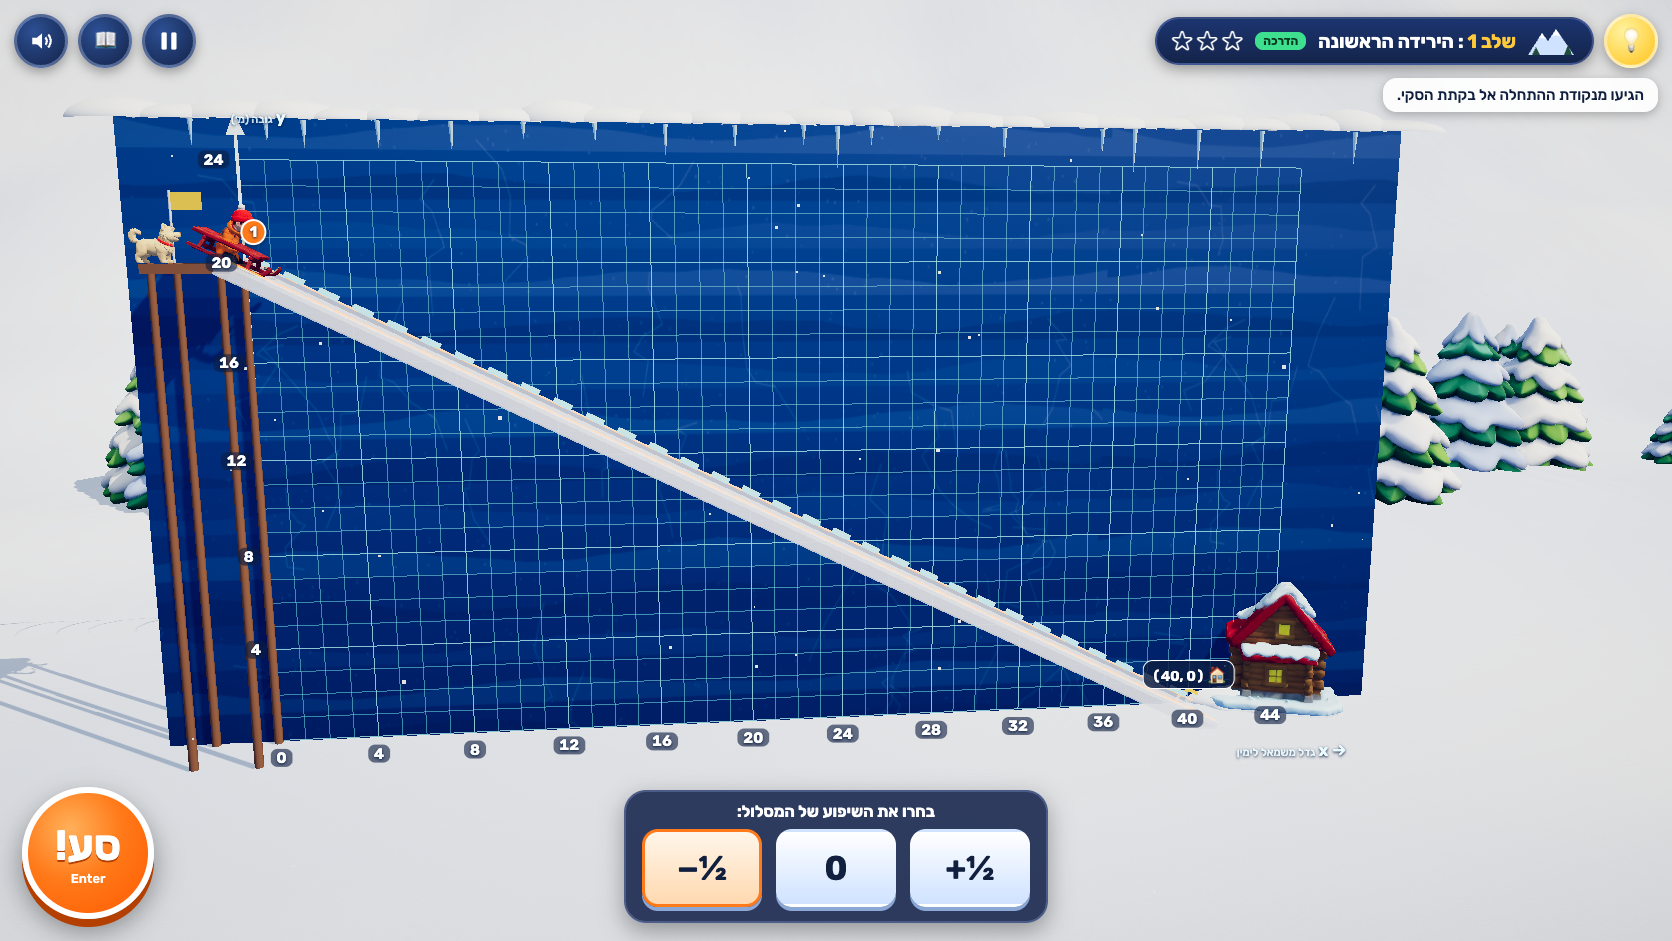
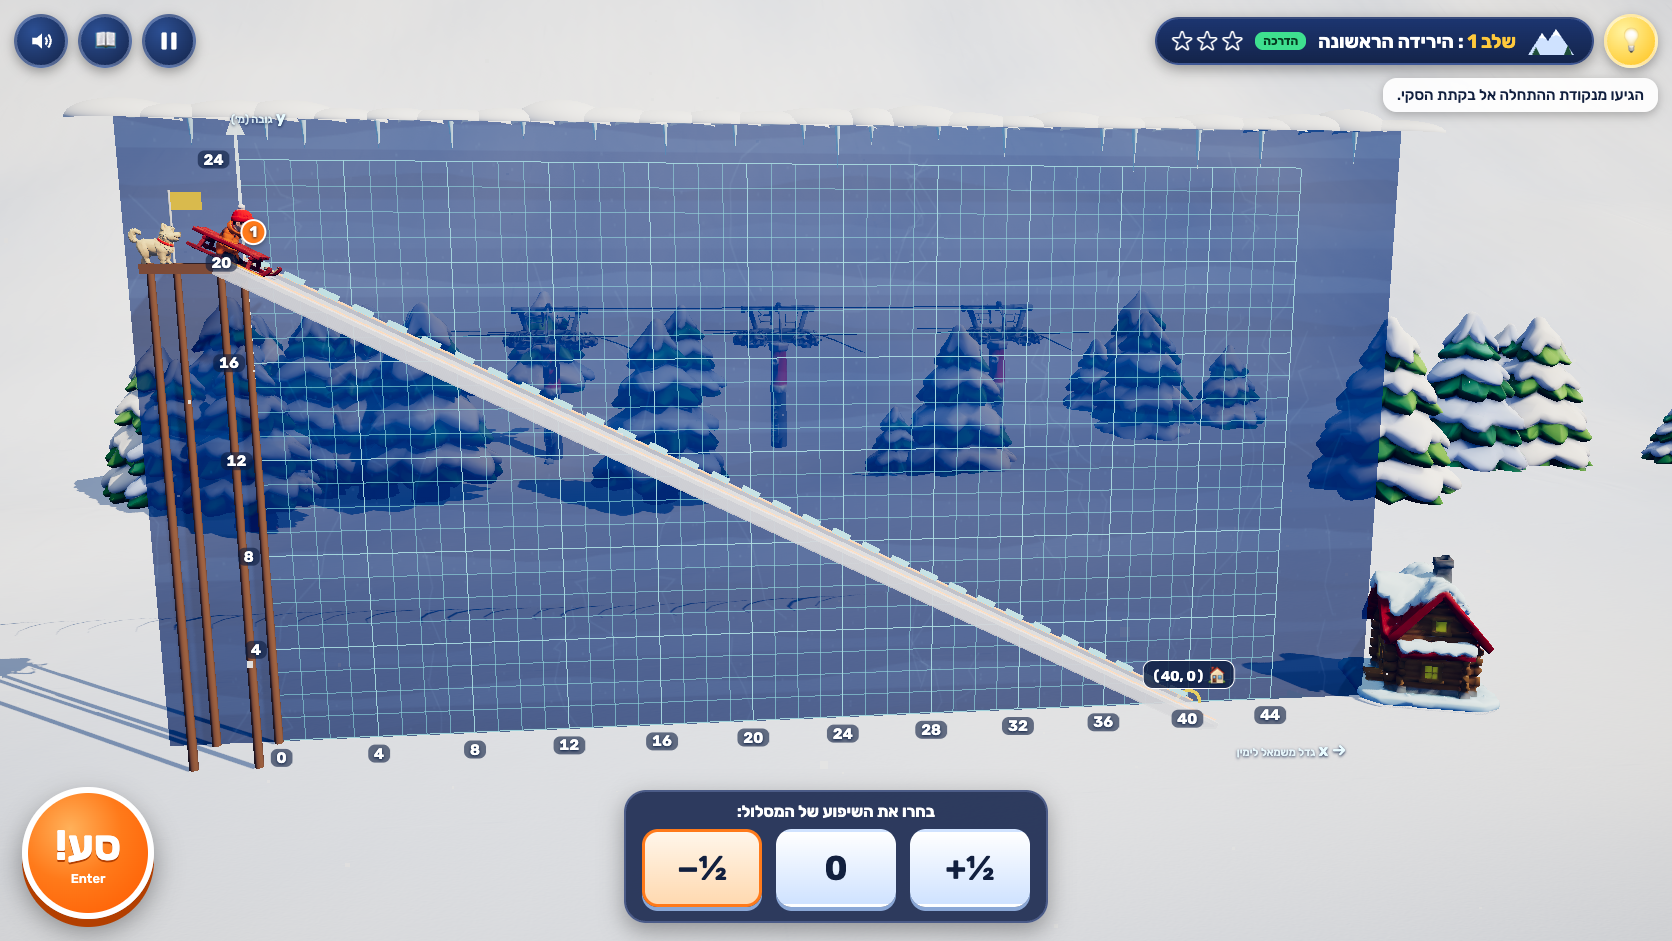
Each world its own time of day and scenery; refreshed title, first-30s and map captures; progress notes

diff --git a/src/scene/world.ts b/src/scene/world.ts
@@ -241,7 +241,7 @@ export class World {
     }
   }
 
-  setMood(mood: Mood): void {
+  setMood(mood: Mood, world = 1): void {
     const u = this.skyMat.uniforms;
     u.stars.value = 0;
     if (mood === 'night') {
@@ -273,6 +273,30 @@ export class World {
       (this.scene.fog as THREE.Fog).color.set(COLORS.horizon);
       this.renderer.toneMappingExposure = 1.12;
       if (this.grade) this.grade.uniforms.warmth.value = 0.05;
+      // Each world is its own time of day on the mountain.
+      if (world === 2) {
+        // Pine Forest: morning, cooler green-blue sky, softer sun through the trees.
+        u.mid.value.set(0x3f7fd8); u.bottom.value.set(0xcfe8ff);
+        u.sunDir.value.set(-0.45, 0.5, 0.45).normalize();
+        this.sun.intensity = 3.6; this.sun.color.set(0xfff6e8);
+        this.hemi.color.set(0xd2ecff); this.hemi.groundColor.set(0x5f8f9a);
+        if (this.grade) this.grade.uniforms.warmth.value = 0.02;
+      } else if (world === 3) {
+        // Rock Garden: crisp, cold high-altitude light, deep sky, hard shadows.
+        u.top.value.set(0x0f3a96); u.mid.value.set(0x1f5fcf); u.bottom.value.set(0xa9cdf7);
+        u.sunDir.value.set(0.35, 0.75, 0.3).normalize();
+        this.sun.intensity = 4.8; this.sun.color.set(0xffffff);
+        this.hemi.intensity = 1.1; this.hemi.groundColor.set(0x5a78c0);
+        if (this.grade) this.grade.uniforms.warmth.value = -0.01;
+      } else if (world === 4) {
+        // Twin Trails: golden late afternoon, long warm light.
+        u.mid.value.set(0x3f6fc8); u.bottom.value.set(0xffd9a8); u.sunColor.value.set(0xffd08a);
+        u.sunDir.value.set(0.8, 0.28, 0.35).normalize();
+        this.sun.intensity = 3.6; this.sun.color.set(0xffd9a0);
+        this.hemi.color.set(0xd8e2ff); this.hemi.groundColor.set(0x7a7fb8);
+        (this.scene.fog as THREE.Fog).color.set(0xe8dccb);
+        if (this.grade) this.grade.uniforms.warmth.value = 0.09;
+      }
     }
     this.sunDir.copy(u.sunDir.value as THREE.Vector3);
   }

diff --git a/src/scene/course.ts b/src/scene/course.ts
@@ -444,7 +444,9 @@ export class Course {
     let seed = this.level.id * 97 + 13;
     const rnd = () => ((seed = (seed * 16807) % 2147483647) / 2147483647);
     const back: THREE.Object3D[] = [];
-    for (let i = 0; i < 46; i++) {
+    const w = this.level.world;
+    const forest = w === 2 ? 90 : w === 3 ? 26 : 46;
+    for (let i = 0; i < forest; i++) {
       const x = x0 - 30 + rnd() * (x1 - x0 + 90);
       const z = -34 - rnd() * 50;
       if (rnd() < 0.35) continue;
@@ -466,6 +468,15 @@ export class Course {
       const py = this.assets.pylon();
       py.position.set(x0 + 6 + i * ((x1 - x0) / 2.2), 0, -62);
       back.push(py);
+    }
+    if (w === 3) {
+      // Rock Garden: basalt boulders scattered across the slopes.
+      for (let i = 0; i < 22; i++) {
+        const rk = this.assets.rock(2 + rnd() * 5, 3 + rnd() * 5);
+        rk.position.set(x0 - 25 + rnd() * (x1 - x0 + 70), 0, -30 - rnd() * 45);
+        rk.rotation.y = rnd() * 6;
+        back.push(rk);
+      }
     }
     this.staticGroup.add(...back);
     // Cable between pylons.

diff --git a/src/game/game.ts b/src/game/game.ts
@@ -207,7 +207,7 @@ export class Game {
     this.chosen = st.segments.map((s) => !s.m.choices);
     this.selected = Math.max(0, st.segments.findIndex((s) => !s.given));
     this.hintOn = false;
-    this.world.setMood(this.level.mood ?? 'day');
+    this.world.setMood(this.level.mood ?? 'day', this.level.world);
     this.course.load(this.level, st);
     this.setupRival();
     this.redrawBuild();

diff --git a/progress.md b/progress.md
@@ -44,6 +44,25 @@
 - **Failure replay:** frames the whole grid beside the card. For joint gaps it draws both lines to their true crossing.
 - **QA:** every level ridden with its verified answer *and* a deliberate wrong answer, through key presses on the production build. All right answers succeed. Wrong answers fail with matching explanations; the exceptions are window levels, where a +1-step change can stay inside the window (by design).
 
+## 2026-10-31: playtest round 2 fixes
+
+- **Answer leaks closed:**
+  - Wide, unlabeled landings on the window levels.
+  - Redesigned expert runs (uneven table, joint on the bolt, ridge and cornice, ghost line read from its graph).
+  - Practice world 4 now needs the dog's equation.
+  - On no-hint levels the replay stops at the failure point.
+  - Tips no longer quote the level's numbers.
+- **Map:**
+  - One terrace per world; overlaps measured at none by `scripts/map-overlaps.mjs`.
+  - A phone list with practice and expert.
+  - A summit finale after level 18.
+- **Look:**
+  - Title attract mode and higher-contrast light.
+  - A glacier-ice grid board and sprite fog.
+  - Ride-only landing ledges and slabs that fade in the chase camera.
+  - Alpenglow dusk and a time of day per world.
+- **QA:** re-run on the production build. All 18 levels pass, and every wrong answer fails with a matching explanation (apart from the window levels, by design).
+
 ## Verification environment notes
 
 - The in-app browser pane isn't visible while this session has no window, so `requestAnimationFrame` doesn't run and pane screenshots are stale. All gameplay captures come from headless Chromium via Playwright (`scripts/drive.mjs`, `scripts/play-all.mjs`), using real clicks and keys plus `advanceTime`.
